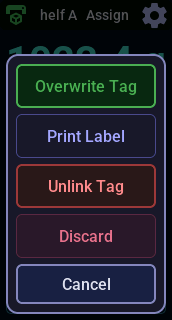
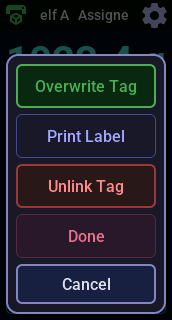
Spool panel: Done instead of Discard
Discard on the spool panel only closes it; the spool stays in the
inventory. Right after Add to Inventory it read as throwing away the spool
just added. The button now says Done there, on the full and the lite UI.
An unlinked tag keeps Discard, which hides that tag until it is scanned
again, and so does the build-plate popup.

Changed region(s): [[0.3488, 0.7188, 0.6686, 0.7812], [0.2326, 0.0312, 0.7558, 0.0938]]

diff --git a/docs/console-lite.md b/docs/console-lite.md
@@ -158,7 +158,7 @@ shows as buttons below it.
 
 | | |
 |---|---|
-| <img src="images/ui/lite/spool-actions.png" alt="Overwrite Tag, Print Label, Unlink Tag, Discard and Cancel" width="172"> | **Write Tag** writes the spool to an NTAG as an OpenTag3D record, as on the full console; it reads *Overwrite Tag* for a tag holding other NDEF data and asks first, *Rewrite Tag* or *Update Tag* when the tag's data differs or is older, and *Write Tag Again* when it matches. The header shows *Writing tag...* until the write is done, then the result. **Print Label** shows with a [label printer](label-printer.md). **Unlink Tag** removes the tag from the spool. **Discard** clears the spool from the screen. |
+| <img src="images/ui/lite/spool-actions.png" alt="Overwrite Tag, Print Label, Unlink Tag, Done and Cancel" width="172"> | **Write Tag** writes the spool to an NTAG as an OpenTag3D record, as on the full console; it reads *Overwrite Tag* for a tag holding other NDEF data and asks first, *Rewrite Tag* or *Update Tag* when the tag's data differs or is older, and *Write Tag Again* when it matches. The header shows *Writing tag...* until the write is done, then the result. **Print Label** shows with a [label printer](label-printer.md). **Unlink Tag** removes the tag from the spool. **Done** clears the spool from the screen; the spool stays in the inventory. |
 | <img src="images/ui/lite/unlink-confirm.png" alt="'Are you sure? Unlink this tag from its spool?' with Cancel and Unlink" width="172"> | **Unlink confirm.** Afterwards the screen shows *Place spool tag on reader* with *Tag unlinked*. Scan the tag again and it shows as unlinked, ready for **Add to Inventory**. |
 | <img src="images/ui/lite/unlinked-actions.png" alt="Discard and Cancel over an unlinked tag" width="172"> | **Unlinked tag actions.** **Discard** hides the tag until it is scanned again. |
 

diff --git a/docs/usage.md b/docs/usage.md
@@ -16,7 +16,7 @@ through every screen.
   that tab shows *Place spool tag on reader*.
 
   <img src="images/ui/full/nfc-waiting.png" alt="NFC tab waiting for a tag: NFC icon and Place spool tag on reader" width="360">
-  <img src="images/ui/full/nfc-spool.png" alt="NFC tab showing a scanned spool: name, colour, remaining weight, the tag chip in the top-left corner, and Quick Weight / Print Label / Discard buttons" width="360">
+  <img src="images/ui/full/nfc-spool.png" alt="NFC tab showing a scanned spool: name, colour, remaining weight, the tag chip in the top-left corner, and Quick Weight / Print Label / Done buttons" width="360">
 
 - **Scan + load auto-assigns the AMS slot**: after scanning a tag linked to
   a known spool, loading that physical spool into any AMS slot within the
@@ -178,7 +178,7 @@ through every screen.
   <img src="images/ui/full/tag-chip.png" alt="Spool view of eSUN PLA Plus Bone White with a green Matches spool chip in the top-left corner" width="360">
   <img src="images/ui/full/unlink-confirm.png" alt="Are you sure? Unlink this tag from its spool? with Cancel and Unlink" width="360">
 
-- **Discard** clears the spool from the screen.
+- **Done** clears the spool from the screen. The spool stays in the inventory.
 - **AMS / printer status**: the console's AMS tab shows live slot/filament
   state polled from Bambuddy, along with each AMS unit's temperature,
   humidity, and its custom name if one was set in Bambuddy (falls back to a
